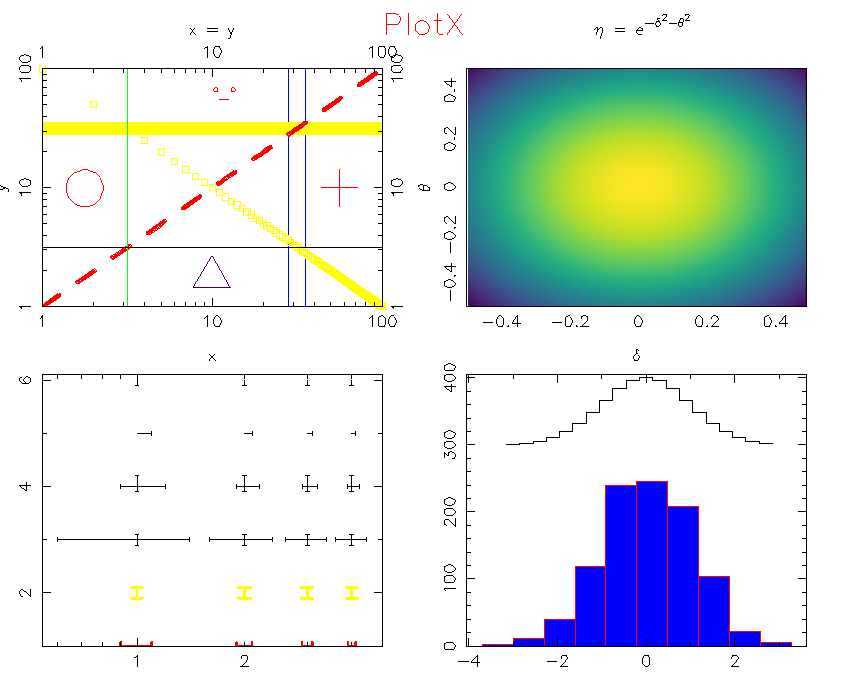
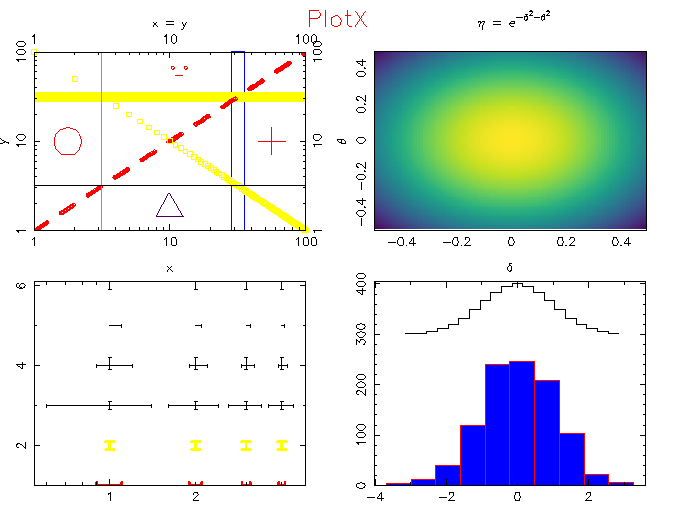
revise example

diff --git a/examples/example.cpp b/examples/example.cpp
@@ -14,7 +14,7 @@
 
 int main()
 {
-    PlotX::Figure fig;
+    PlotX::Figure fig(8, 0.75);
 
     PlotX::Axes ax(0.05, 0.45, 0.55, 0.9);
     ax.label(true, true, true, true);
